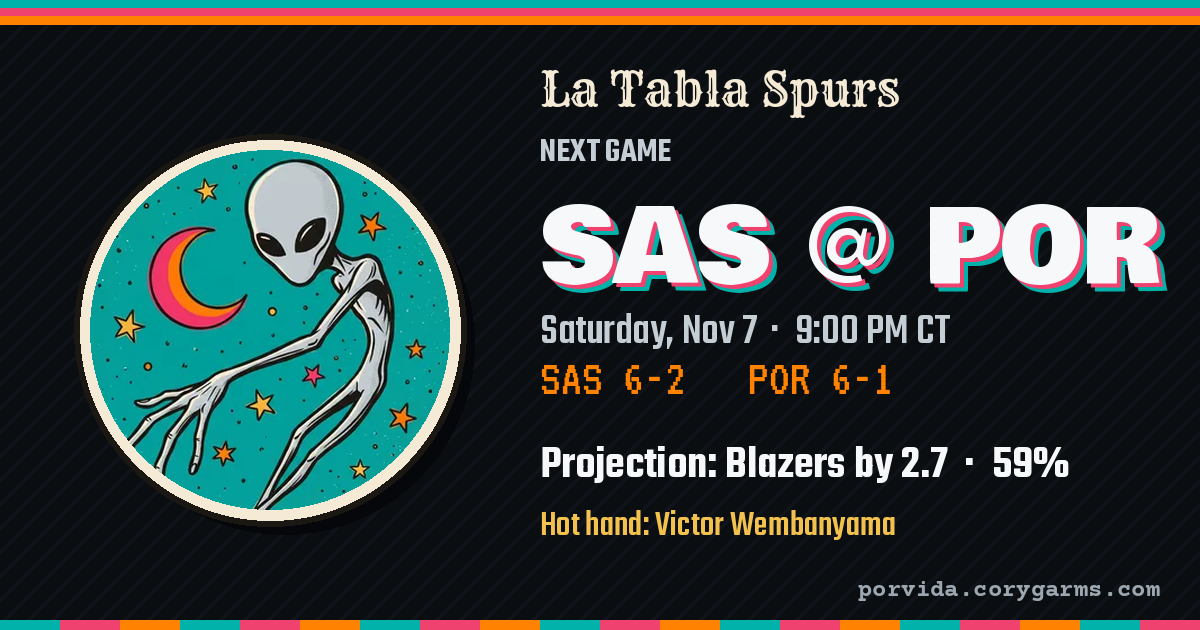
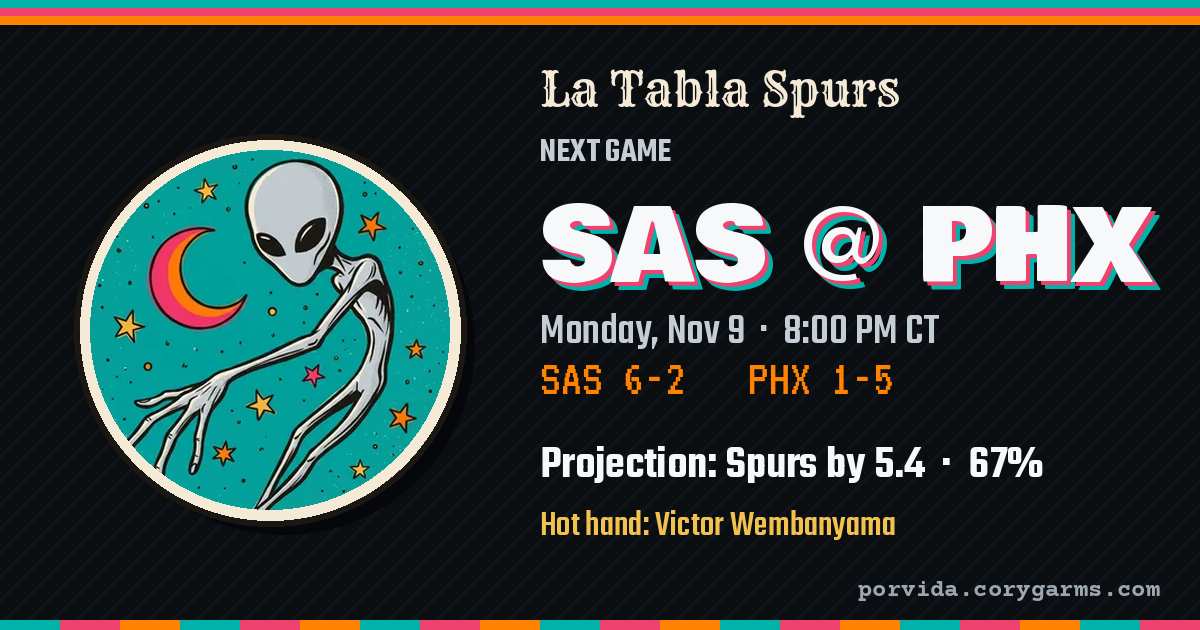
chore(pipeline): automated analytics, static APIs & dashboard refresh [skip ci]

Changed region(s): [[0.4317, 0.3016, 0.9867, 0.573], [0.6167, 0.6937, 0.8942, 0.7841], [0.6475, 0.573, 0.74, 0.6333]]

diff --git a/docs/matchup.html b/docs/matchup.html
@@ -5,13 +5,13 @@
   <meta name="viewport" content="width=device-width, initial-scale=1.0">
   <title>Next Game — San Antonio Spurs Analytics</title>
   <link rel="icon" type="image/png" href="favicon.png?v=gsg2">
-  <meta name="description" content="Saturday, Nov 7 · 9:00 PM CT · Moda Center, Portland · TV: KUNP, DAZN-SAS">
+  <meta name="description" content="Monday, Nov 9 · 8:00 PM CT · Mortgage Matchup Center, Phoenix · TV: 3TV / AZFS, DAZN-SAS">
   <meta property="og:type" content="website">
   <meta property="og:site_name" content="La Tabla Spurs">
   <meta property="og:title" content="Next Game · La Tabla Spurs">
-  <meta property="og:description" content="Saturday, Nov 7 · 9:00 PM CT · Moda Center, Portland · TV: KUNP, DAZN-SAS">
+  <meta property="og:description" content="Monday, Nov 9 · 8:00 PM CT · Mortgage Matchup Center, Phoenix · TV: 3TV / AZFS, DAZN-SAS">
   <meta name="twitter:title" content="Next Game · La Tabla Spurs">
-  <meta name="twitter:description" content="Saturday, Nov 7 · 9:00 PM CT · Moda Center, Portland · TV: KUNP, DAZN-SAS">
+  <meta name="twitter:description" content="Monday, Nov 9 · 8:00 PM CT · Mortgage Matchup Center, Phoenix · TV: 3TV / AZFS, DAZN-SAS">
   <meta property="og:image" content="https://porvida.corygarms.com/img/la_tabla_gsg_logo_with_banner.png?v=c6112c38">
   <meta property="og:image:width" content="669">
   <meta property="og:image:height" content="373">
@@ -246,8 +246,8 @@
         <svg class="alamo-icon-svg" viewBox="0 0 100 50" fill="none" xmlns="http://www.w3.org/2000/svg" aria-label="The Alamo Mission Icon"><path d="M 6 46 L 94 46 L 94 34 L 84 34 L 84 26 C 81 26 78 24 76 21 C 72 21 69 16 63 16 C 60 10 53 8 50 8 C 47 8 40 10 37 16 C 31 16 28 21 24 21 C 22 24 19 26 16 26 L 16 34 L 6 34 Z" fill="currentColor"/><path d="M 46 20 C 46 17 54 17 54 20 L 54 27 L 46 27 Z" fill="#0B0E11"/><path d="M 43 46 L 43 36 C 43 32 57 32 57 36 L 57 46 Z" fill="#0B0E11"/></svg>
         <span>The Alamo City &bull; Mission San Antonio</span>
       </div>
-      <h1><span class="title-text">Next Game</span> <span class="badge">@ POR</span></h1>
-      <p>Saturday, Nov 7 · 9:00 PM CT &middot; Moda Center, Portland &middot; TV: KUNP, DAZN-SAS</p>
+      <h1><span class="title-text">Next Game</span> <span class="badge">@ PHX</span></h1>
+      <p>Monday, Nov 9 · 8:00 PM CT &middot; Mortgage Matchup Center, Phoenix &middot; TV: 3TV / AZFS, DAZN-SAS</p>
     </header>
   </div>
   <main>
@@ -289,30 +289,30 @@
       @media (max-width: 640px) { .ng-table { font-size: 0.85rem; } .ng-table th, .ng-table td { padding: 7px 5px; } }
     </style>
     <section class="card">
-      <h2>Spurs at Trail Blazers</h2>
+      <h2>Spurs at Suns</h2>
       <div class="ng-teams">
         <div class="ng-team"><div class="abbr">SAS</div><div class="name">Spurs</div>
           <div class="rec">6-2</div></div>
         <div class="ng-vs">@</div>
-        <div class="ng-team"><div class="abbr">POR</div><div class="name">Trail Blazers</div>
-          <div class="rec">6-1</div></div>
+        <div class="ng-team"><div class="abbr">PHX</div><div class="name">Suns</div>
+          <div class="rec">1-5</div></div>
       </div>
       
         <div class="ng-proj">
-          <div class="big">Projection: Trail Blazers by 2.7 &middot; 59% win chance</div>
+          <div class="big">Projection: Spurs by 5.4 &middot; 67% win chance</div>
           <p class="how">From each team's net rating, pulled toward league average until about 10 games are in,
             converted to points at the two teams' pace, plus 2 points for home court.</p>
-          <span class="badge small-sample" title="Small sample: expect this to move a lot">Only 7 games of data per team, so treat this loosely</span>
+          <span class="badge small-sample" title="Small sample: expect this to move a lot">Only 6 games of data per team, so treat this loosely</span>
         </div>
     </section>
     <section class="card">
       <h2>Tale of the Tape</h2>
       <p class="ng-empty" style="margin: -6px 0 12px;">League rank in small type (1 = best of 30). Highlighted values mark
-        who has the edge: Spurs 3, Trail Blazers 5.</p>
+        who has the edge: Spurs 7, Suns 1.</p>
       <div style="overflow-x: auto;">
         <table class="ng-table">
-          <thead><tr><th></th><th style="text-align:center;">Spurs</th><th style="text-align:center;">Trail Blazers</th></tr></thead>
-          <tbody><tr><td>Net rating</td><td class="num">+8.0<span class="rk">#7</span></td><td class="num edge them">+10.4<span class="rk">#2</span></td></tr><tr><td>Offensive rating</td><td class="num">115.4<span class="rk">#10</span></td><td class="num edge them">120.0<span class="rk">#2</span></td></tr><tr><td>Defensive rating</td><td class="num edge">107.4<span class="rk">#5</span></td><td class="num">109.6<span class="rk">#8</span></td></tr><tr><td>Pace</td><td class="num">99.9</td><td class="num">101.3</td></tr><tr><td>Effective FG%</td><td class="num">51.7%<span class="rk">#22</span></td><td class="num edge them">56.4%<span class="rk">#3</span></td></tr><tr><td>Turnover %</td><td class="num edge">12.8%<span class="rk">#1</span></td><td class="num">15.5%<span class="rk">#13</span></td></tr><tr><td>Off. rebound %</td><td class="num">33.1%<span class="rk">#9</span></td><td class="num edge them">36.2%<span class="rk">#2</span></td></tr><tr><td>Free throw rate</td><td class="num">0.277<span class="rk">#18</span></td><td class="num edge them">0.356<span class="rk">#4</span></td></tr><tr><td>Opp. effective FG%</td><td class="num edge">49.9%<span class="rk">#3</span></td><td class="num">51.2%<span class="rk">#8</span></td></tr></tbody>
+          <thead><tr><th></th><th style="text-align:center;">Spurs</th><th style="text-align:center;">Suns</th></tr></thead>
+          <tbody><tr><td>Net rating</td><td class="num edge">+8.0<span class="rk">#7</span></td><td class="num">-10.3<span class="rk">#25</span></td></tr><tr><td>Offensive rating</td><td class="num edge">115.4<span class="rk">#10</span></td><td class="num">114.3<span class="rk">#12</span></td></tr><tr><td>Defensive rating</td><td class="num edge">107.4<span class="rk">#5</span></td><td class="num">124.5<span class="rk">#30</span></td></tr><tr><td>Pace</td><td class="num">99.9</td><td class="num">99.5</td></tr><tr><td>Effective FG%</td><td class="num">51.7%<span class="rk">#22</span></td><td class="num edge them">53.5%<span class="rk">#13</span></td></tr><tr><td>Turnover %</td><td class="num edge">12.8%<span class="rk">#1</span></td><td class="num">14.8%<span class="rk">#8</span></td></tr><tr><td>Off. rebound %</td><td class="num edge">33.1%<span class="rk">#9</span></td><td class="num">31.1%<span class="rk">#16</span></td></tr><tr><td>Free throw rate</td><td class="num edge">0.277<span class="rk">#18</span></td><td class="num">0.267<span class="rk">#22</span></td></tr><tr><td>Opp. effective FG%</td><td class="num edge">49.9%<span class="rk">#3</span></td><td class="num">57.5%<span class="rk">#28</span></td></tr></tbody>
         </table>
       </div>
     </section>
@@ -320,7 +320,7 @@
       <h2>Recent Form</h2>
       <div class="ng-cols">
         <div><h3>Spurs</h3><ul class="ng-list"><li><span class="wl W">W</span><span class="main">112-111 vs. DAL</span><span class="sub">Nov 4</span></li><li><span class="wl W">W</span><span class="main">119-97 vs. UTA</span><span class="sub">Nov 2</span></li><li><span class="wl W">W</span><span class="main">121-111 vs. MIN</span><span class="sub">Oct 31</span></li><li><span class="wl W">W</span><span class="main">117-111 @ UTA</span><span class="sub">Oct 28</span></li><li><span class="wl W">W</span><span class="main">130-103 vs. SAC</span><span class="sub">Oct 27</span></li></ul></div>
-        <div><h3>Trail Blazers</h3><ul class="ng-list"><li><span class="wl W">W</span><span class="main">132-119 @ PHX</span><span class="sub">Nov 4</span></li><li><span class="wl W">W</span><span class="main">118-110 @ DEN</span><span class="sub">Nov 2</span></li><li><span class="wl W">W</span><span class="main">112-90 @ UTA</span><span class="sub">Oct 31</span></li><li><span class="wl L">L</span><span class="main">103-124 vs. MEM</span><span class="sub">Oct 29</span></li><li><span class="wl W">W</span><span class="main">136-129 @ LAL</span><span class="sub">Oct 27</span></li></ul></div>
+        <div><h3>Suns</h3><ul class="ng-list"><li><span class="wl L">L</span><span class="main">119-132 vs. POR</span><span class="sub">Nov 4</span></li><li><span class="wl L">L</span><span class="main">113-116 @ GSW</span><span class="sub">Nov 2</span></li><li><span class="wl L">L</span><span class="main">120-127 vs. DEN</span><span class="sub">Oct 30</span></li><li><span class="wl L">L</span><span class="main">114-125 @ OKC</span><span class="sub">Oct 26</span></li><li><span class="wl W">W</span><span class="main">131-122 vs. GSW</span><span class="sub">Oct 24</span></li></ul></div>
       </div>
     </section>
     <section class="card">
@@ -328,15 +328,15 @@
       <p class="ng-empty" style="margin: -6px 0 12px;">Top three on each side by average Game Score this season.</p>
       <div class="ng-cols">
         <div><h3>Spurs</h3><ul class="ng-list"><li class="ng-player with-avatar"><img class="avatar avatar-md" src="img/players/wembanyama.webp" alt="El Alien emblem for Victor Wembanyama" title="El Alien" loading="lazy" decoding="async"><div><div class="who"><a class="player-link" href="player_wembanyama.html">Victor Wembanyama</a></div><div class="line">29.0 PTS · 12.4 REB · 3.1 AST</div></div><span class="sub">GmSc 25.9</span></li><li class="ng-player with-avatar"><img class="avatar avatar-md" src="img/players/harper.webp" alt="El Arpa emblem for Dylan Harper" title="El Arpa" loading="lazy" decoding="async"><div><div class="who"><a class="player-link" href="player_harper.html">Dylan Harper</a></div><div class="line">18.6 PTS · 5.6 REB · 4.6 AST</div></div><span class="sub">GmSc 14.9</span></li><li class="ng-player with-avatar"><img class="avatar avatar-md" src="img/players/fox.webp" alt="El Zorro emblem for De&#x27;Aaron Fox" title="El Zorro" loading="lazy" decoding="async"><div><div class="who"><a class="player-link" href="player_fox.html">De&#x27;Aaron Fox</a></div><div class="line">15.1 PTS · 4.2 REB · 6.1 AST</div></div><span class="sub">GmSc 13.9</span></li></ul></div>
-        <div><h3>Trail Blazers</h3><p class="ng-empty">Player stats not fetched yet.</p></div>
+        <div><h3>Suns</h3><p class="ng-empty">Player stats not fetched yet.</p></div>
       </div>
     </section>
     <section class="card">
       <h2>Head to Head</h2>
       <div class="ng-cols">
         <div><h3>This season</h3><p class="ng-empty">First meeting of the season.</p></div>
-        <div><h3>Last season (1-1)</h3>
-          <ul class="ng-list"><li><span class="wl W">W</span><span class="main">115-102 @ POR</span><span class="sub">Nov 26, 2025</span></li><li><span class="wl L">L</span><span class="main">110-115 vs. POR</span><span class="sub">Jan 3, 2026</span></li></ul></div>
+        <div><h3>Last season (2-2)</h3>
+          <ul class="ng-list"><li><span class="wl L">L</span><span class="main">118-130 @ PHX</span><span class="sub">Nov 2, 2025</span></li><li><span class="wl L">L</span><span class="main">102-111 @ PHX</span><span class="sub">Nov 23, 2025</span></li><li><span class="wl W">W</span><span class="main">121-94 vs. PHX</span><span class="sub">Feb 19, 2026</span></li><li><span class="wl W">W</span><span class="main">101-100 vs. PHX</span><span class="sub">Mar 19, 2026</span></li></ul></div>
       </div>
     </section>
   </main>

diff --git a/docs/index.html b/docs/index.html
@@ -463,13 +463,13 @@
         </div>
         <p class="tag">The roster</p>
       </a>
-      <a class="loteria" href="matchup.html" title="Saturday, Nov 7 · 9:00 PM CT. Tale of the tape, form and players to watch." style="--c:#F2C14E; --ink:#1B1712; --sh:transparent;">
+      <a class="loteria" href="matchup.html" title="Monday, Nov 9 · 8:00 PM CT. Tale of the tape, form and players to watch." style="--c:#F2C14E; --ink:#1B1712; --sh:transparent;">
         <div class="frame">
           <div class="num">5</div>
-          <div class="art has-img"><img src="img/loteria/duelo.webp" alt="" loading="lazy" decoding="async"><div class="medallion top"><div class="stat long">@ POR</div><div class="caption">Sat 9:00 PM</div></div></div>
+          <div class="art has-img"><img src="img/loteria/duelo.webp" alt="" loading="lazy" decoding="async"><div class="medallion top"><div class="stat long">@ PHX</div><div class="caption">Mon 8:00 PM</div></div></div>
           <div class="name">El Duelo</div>
         </div>
-        <p class="tag">Next up: Blazers</p>
+        <p class="tag">Next up: Suns</p>
       </a>
       <a class="loteria" href="props_board.html" title="Hit rates vs. last season&#x27;s lines. Not betting advice." style="--c:#C4CED4; --ink:#1B1712; --sh:transparent;">
         <div class="frame">
